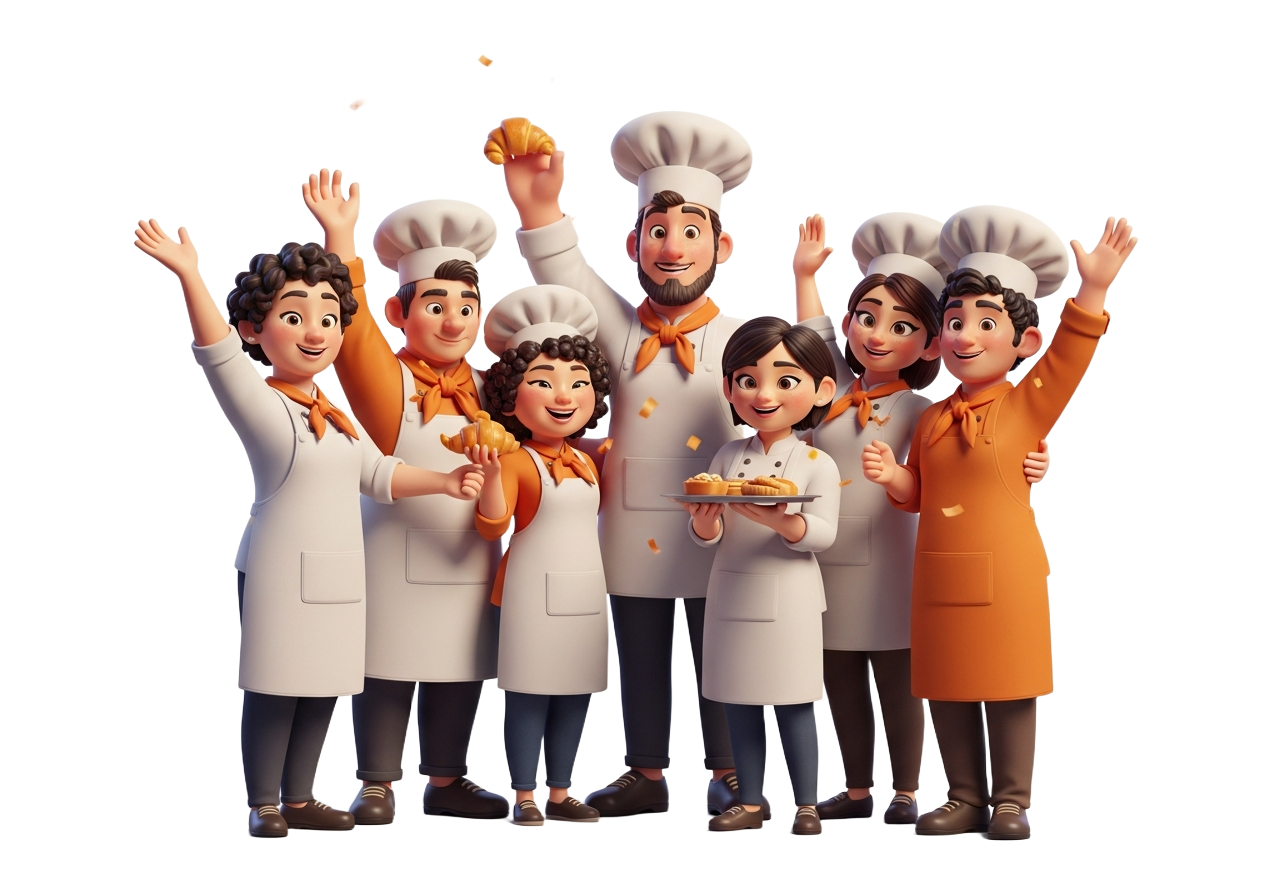
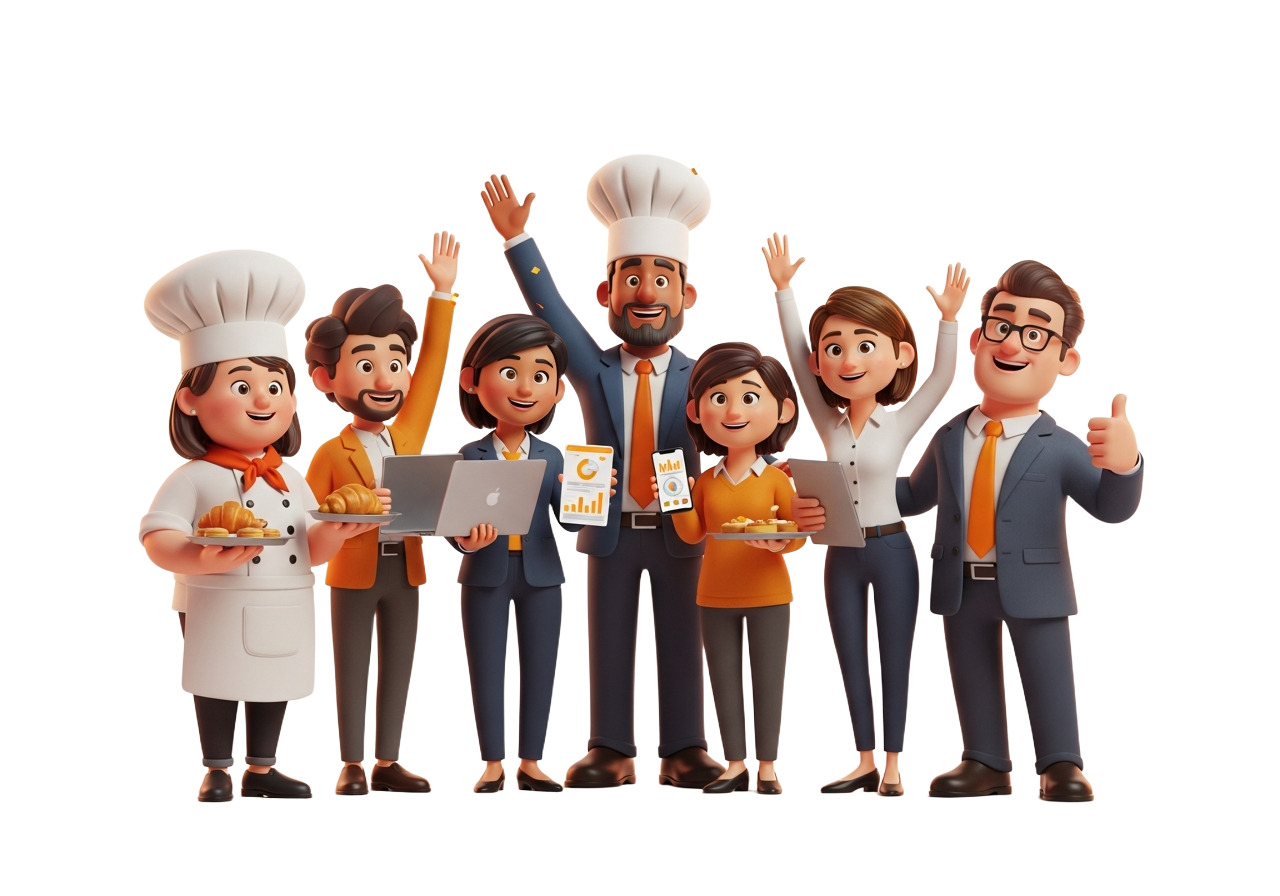
Update team illustration to show diverse staff roles
Replace butter_bakery_team_celebration.png with a new image reflecting a mixed team of chefs, marketing, and administrative staff.

Replit-Commit-Author: Agent
Replit-Commit-Session-Id: e5fd94e0-1e8e-4852-8f43-6661ae21aa6f
Replit-Commit-Checkpoint-Type: full_checkpoint
Replit-Commit-Event-Id: ba449ca0-8951-41eb-9260-d61fc8f40a7f
Replit-Commit-Screenshot-Url: https://storage.googleapis.com/screenshot-production-us-central1/ccfdd11e-6206-49ce-b112-34cf69af608e/e5fd94e0-1e8e-4852-8f43-6661ae21aa6f/aoAfGRJ
Replit-Helium-Checkpoint-Created: true

diff --git a/artifacts/mockup-sandbox/src/.generated/mockup-components.ts b/artifacts/mockup-sandbox/src/.generated/mockup-components.ts
@@ -1,10 +1,10 @@
 // This file is auto-generated by mockupPreviewPlugin.ts.
 type ModuleMap = Record<string, () => Promise<Record<string, unknown>>>;
 export const modules: ModuleMap = {
-  "./components/mockups/floor-plan-redesign/CommandBarWorkspace.tsx": () => import("../components/mockups/floor-plan-redesign/CommandBarWorkspace.tsx"),
-  "./components/mockups/floor-plan-redesign/CompactInspector.tsx": () => import("../components/mockups/floor-plan-redesign/CompactInspector.tsx"),
-  "./components/mockups/floor-plan-redesign/TouchWorkspace.tsx": () => import("../components/mockups/floor-plan-redesign/TouchWorkspace.tsx"),
   "./components/mockups/hr-hub-redesign/CommandCenter.tsx": () => import("../components/mockups/hr-hub-redesign/CommandCenter.tsx"),
   "./components/mockups/hr-hub-redesign/SmartSections.tsx": () => import("../components/mockups/hr-hub-redesign/SmartSections.tsx"),
-  "./components/mockups/hr-hub-redesign/WorkflowTabs.tsx": () => import("../components/mockups/hr-hub-redesign/WorkflowTabs.tsx")
+  "./components/mockups/hr-hub-redesign/WorkflowTabs.tsx": () => import("../components/mockups/hr-hub-redesign/WorkflowTabs.tsx"),
+  "./components/mockups/floor-plan-redesign/CommandBarWorkspace.tsx": () => import("../components/mockups/floor-plan-redesign/CommandBarWorkspace.tsx"),
+  "./components/mockups/floor-plan-redesign/CompactInspector.tsx": () => import("../components/mockups/floor-plan-redesign/CompactInspector.tsx"),
+  "./components/mockups/floor-plan-redesign/TouchWorkspace.tsx": () => import("../components/mockups/floor-plan-redesign/TouchWorkspace.tsx")
 };
